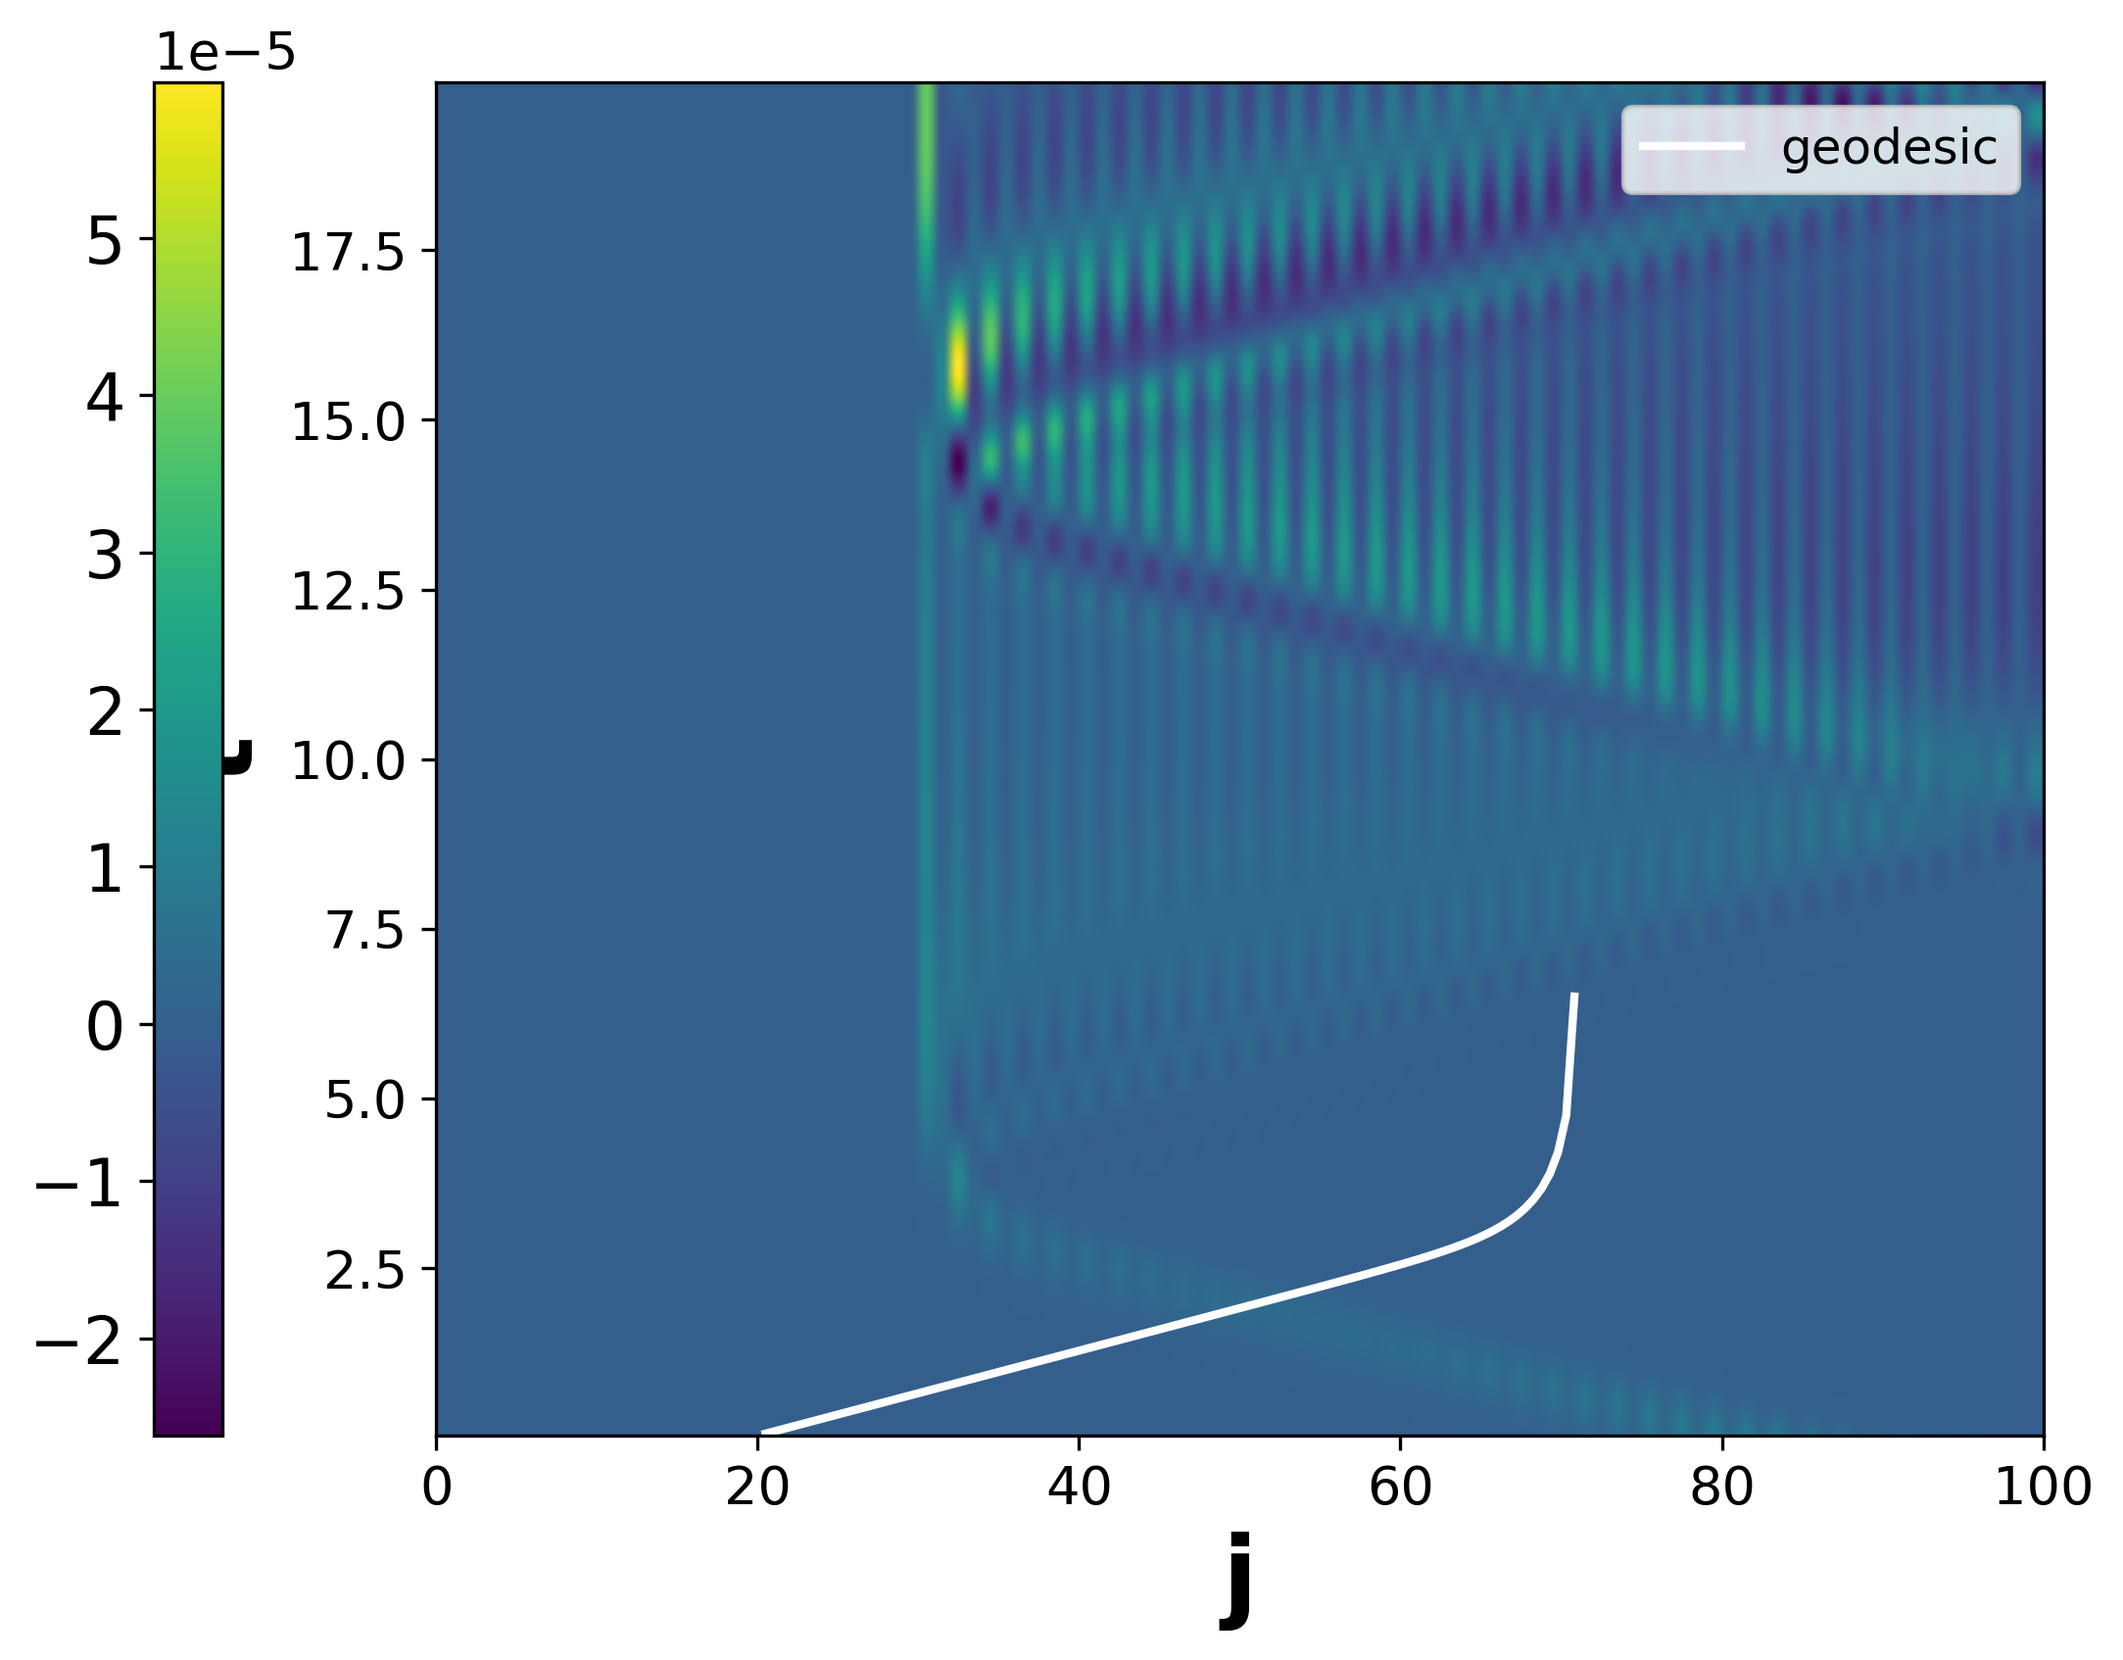
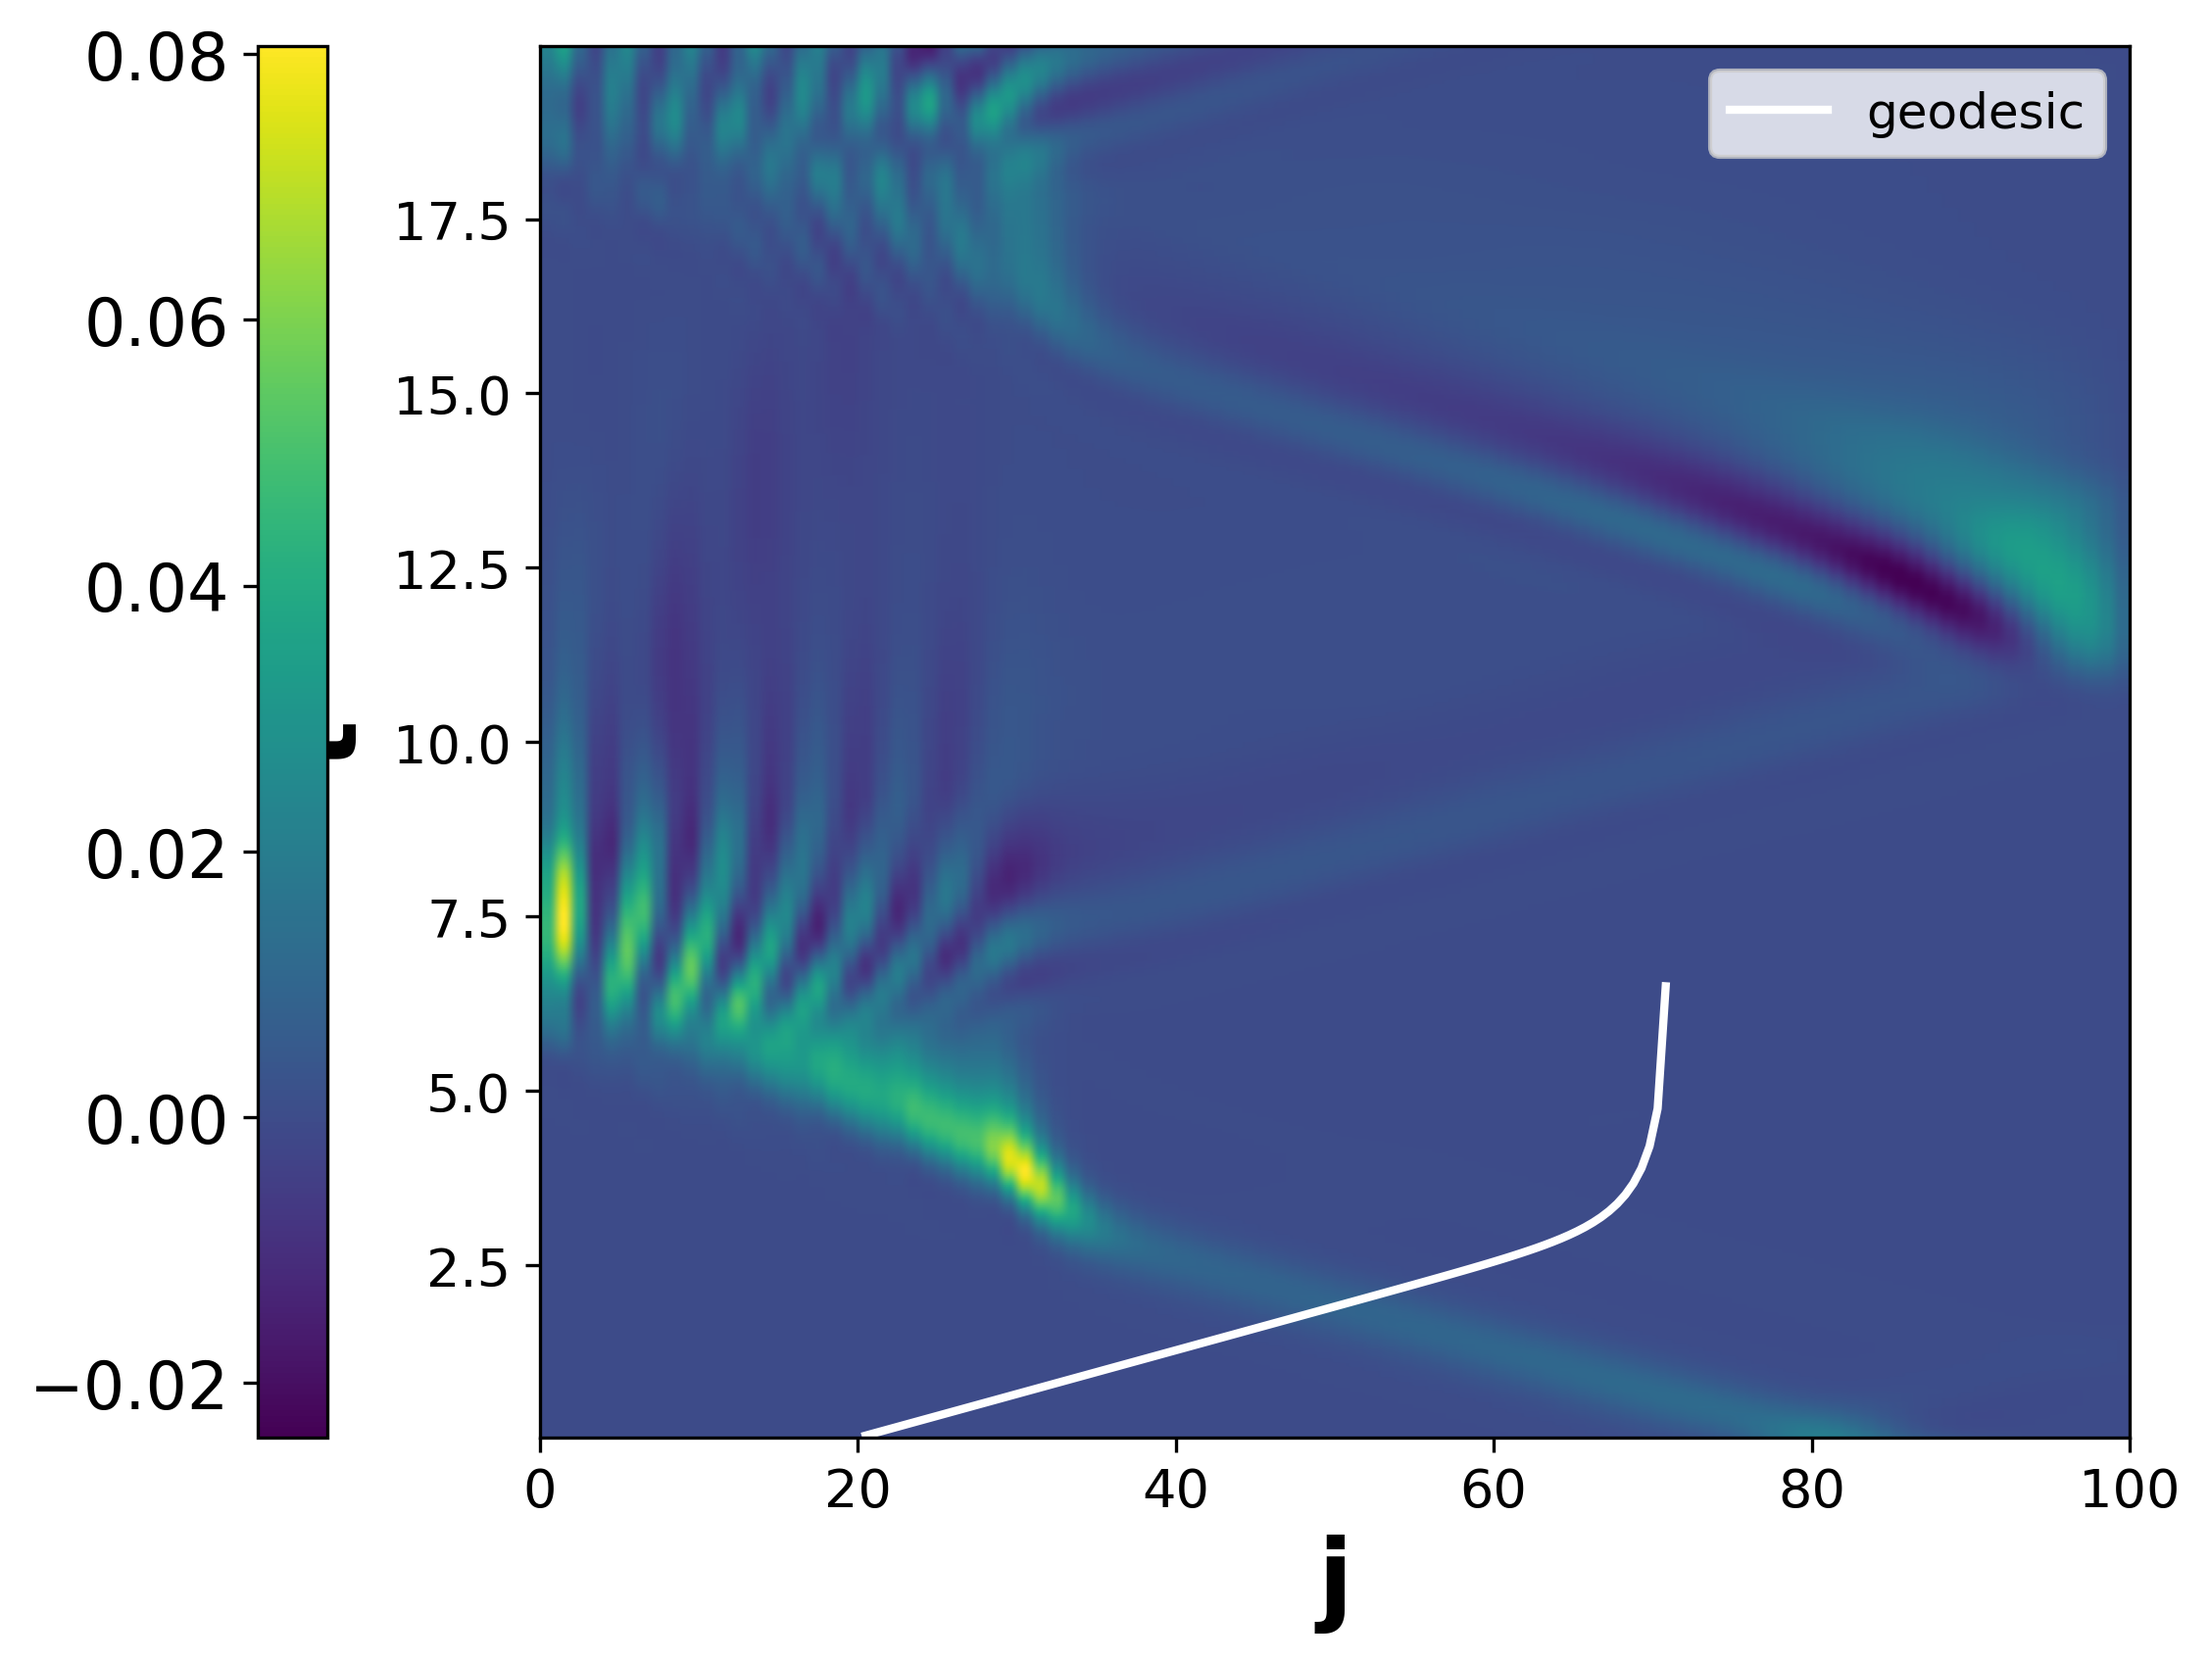
H_pm追加（c_dag_cがまだおかしい）

diff --git a/painleve.py b/painleve.py
@@ -8,7 +8,7 @@ import matplotlib.pyplot as plt
 L = 100
 l = 2*np.pi
 epsilon = l / L
-p = 10**(-5)
+p = 1
 m = 0
 pos = "ul" #lr, ur, ll, ul
 t_i = 0
@@ -102,7 +102,6 @@ plt.show()
 
 #bogoliubov変換行列の作成##########################################################################################################################
 #BdG行列を対角化
-H_BdG = 0.5*(H_BdG + H_BdG.conj().T)
 eigenvalues, eigenvectors = LA.eigh(H_BdG)
 print(eigenvalues)
 print(eigenvectors)
@@ -281,6 +280,7 @@ psi /= np.linalg.norm(psi)
 #ハミルトニアン密度作成###############################################################################################################
 H_p = []
 H_m = []
+H_pm = []
 
 #cj_cj1
 cj_cj1_list = []
@@ -305,28 +305,42 @@ for cj1_cj in cj1_cj_list:
 for j in range(L):
     H_p_j = np.zeros((L, L), dtype=complex)
     H_m_j = np.zeros((L, L), dtype=complex)
+    H_pm_j = np.zeros((L, L), dtype=complex)
 
     #ハミルトニアン密度作成
     H_p_j = -1j/(4*epsilon) * (1+beta(j,L,pos,epsilon))  * (1j*cj_cj1_list[j] + cj_cj1_dag_list[j] + cj_dag_cj1_list[j] - 1j*cj_dag_cj1_dag_list[j])
     H_m_j = -1j/(4*epsilon) * (-1+beta(j,L,pos,epsilon))  * (-1j*cj_cj1_list[j] + cj_cj1_dag_list[j] + cj_dag_cj1_list[j] + 1j*cj_dag_cj1_dag_list[j])
+    H_pm_j = -1j/(2*epsilon) * (p*(1j*cj_cj1_dag_list[j] - 1j*cj_dag_cj1_list[j]) - (p - epsilon*m)*(-2*1j*cj_dag_cj_list[j]))
 
     #エルミートか確認
     isHermitian = is_hermitian(H_p_j)
     assert isHermitian, "H_p(j=" + str(j) + ") is not Hermitian!"
     isHermitian = is_hermitian(H_m_j)
     assert isHermitian, "H_m(j=" + str(j) + ") is not Hermitian!"
+    isHermitian = is_hermitian(H_pm_j)
+    assert isHermitian, "H_pm(j=" + str(j) + ") is not Hermitian!"
 
     H_p.append(H_p_j)
     H_m.append(H_m_j)
-
-
+    H_pm.append(H_pm_j)
 
 #真空の量を計算##########################################################################################
 Hp_v = []
 Hm_v = []
+Hpm_v = []
+
+#真空のc_dag_cを計算
+c_dag_c_v = []
+for j in range(L):
+    total = 0.0
+    for n in range(L):
+        total += abs(eigenvectors[j, n+L])**2
+    c_dag_c_v.append(total)
+
 for j in range(L):
     Hp_v_j = 0
     Hm_v_j = 0
+    H_pm_v_j = 0
     F1 = 0
     F2 = 0
     for n in range(L):
@@ -338,27 +352,23 @@ for j in range(L):
             F2 += eigenvectors[j+1,n+L].conj() * eigenvectors[j,n+L]
     Hp_v_j = -1/(2*epsilon) * 1j * (1+beta(j,L,pos,epsilon)) * 1/2 * (1j * (-1*F1) + (-1*F2) + (F2.conj()) - 1j * (F1.conj()))
     Hm_v_j = -1/(2*epsilon) * 1j * (-1+beta(j,L,pos,epsilon)) * 1/2 * (-1j * (-1*F1) + (-1*F2) + (F2.conj()) + 1j * (F1.conj()))
+    H_pm_v_j = -1j/(2*epsilon) * (1j * p * (-1*F2 - F2.conj()) - (p - epsilon*m) * (-2j * c_dag_c_v[j]))
     assert abs(Hp_v_j - Hp_v_j.conj()) < 10**-5, "Hp_v_j(j=" + str(j) + ") is not Hermitian!"
     assert abs(Hm_v_j - Hm_v_j.conj()) < 10**-5, "Hm_v_j(j=" + str(j) + ") is not Hermitian!"
     Hp_v.append(Hp_v_j)
     Hm_v.append(Hm_v_j)
+    Hpm_v.append(H_pm_v_j)
     if not PBC:
         if j == L-1:
             Hp_v[-1] = 0
             Hm_v[-1] = 0
+            Hpm_v[-1] = 0
 
 plt.plot(Hp_v, label="Hp_v")
 plt.plot(Hm_v, label="Hm_v")
+plt.plot(Hpm_v, label="Hpm_v")
 plt.legend()
 plt.show()
-
-#真空のc_dag_cを計算
-c_dag_c_v = []
-for j in range(L):
-    total = 0.0
-    for n in range(L):
-        total += abs(eigenvectors[j, n+L])**2
-    c_dag_c_v.append(total)
 
 plt.plot(c_dag_c_v)
 plt.title("c_dag_c_v")
@@ -369,6 +379,7 @@ plt.show()
 
 H_p_0 = []
 H_m_0 = []
+H_pm_0 = []
 c_0 = []
 #H_pの期待値
 for j, H_p_j in enumerate(H_p):
@@ -380,15 +391,19 @@ for j, H_m_j in enumerate(H_m):
     val = psi.T.conj() @ H_m_j @ psi
     H_m_0.append(val.item() - Hm_v[j])
 
+#H_pmの期待値
+for j, H_pm_j in enumerate(H_pm):
+    val = psi.T.conj() @ H_pm_j @ psi
+    H_pm_0.append(val.item() - Hpm_v[j])
+
 #c_dag_cの期待値
-print("val")
 for j, cj_dag_cj in enumerate(cj_dag_cj_list):
     val = psi.T.conj() @ cj_dag_cj @ psi
-    print(val)
     c_0.append(val.item() - c_dag_c_v[j])
 
 plt.plot(H_p_0, label="H_p_0")
 plt.plot(H_m_0, label="H_m_0")
+plt.plot(H_pm_0, label="H_pm_0")
 plt.legend()
 plt.grid()
 plt.show()
@@ -401,6 +416,7 @@ plt.show()
 #時間発展###########################################################################################################################
 H_p_val = []
 H_m_val = []
+H_pm_val = []
 c_dag_c_val = []
 psi_initial = psi.copy()
 def log_imag(name, arr):
@@ -416,9 +432,11 @@ for i, _ in enumerate(times):
 
     H_p_t_val = []
     H_m_t_val = []
+    H_pm_t_val = []
     c_dag_c_t_val = []
     H_p_test = []
     H_m_test = []
+    H_pm_test = []
     c_dag_c_test = []
 
     #H_pの期待値
@@ -435,6 +453,13 @@ for i, _ in enumerate(times):
         H_m_test.append(val)
     H_m_val.append(H_m_t_val)
 
+    #H_pmの期待値
+    for j, H_pm_j in enumerate(H_pm):
+        val = psi.T.conj() @ H_pm_j @ psi
+        H_pm_t_val.append(val.item() - Hpm_v[j])
+        H_pm_test.append(val)
+    H_pm_val.append(H_pm_t_val)
+
     #c_dag_cの期待値
     for j, cj_dag_cj in enumerate(cj_dag_cj_list):
         val = psi.T.conj() @ cj_dag_cj @ psi
@@ -444,6 +469,7 @@ for i, _ in enumerate(times):
 
     log_imag("H_p", H_p_test)
     log_imag("H_m", H_m_test)
+    log_imag("H_pm", H_pm_test)
     log_imag("c_dag_c", c_dag_c_test)
 
     psi = psi_initial.copy()
@@ -553,6 +579,9 @@ try:
     x_scaled = (x / (2 * np.pi)) * L
     t_scaled = (t / 20.0) * (times[-1] - times[0]) + times[0]
 
+    # 左右反転
+    x_scaled = L - x_scaled
+
     plt.plot(x_scaled, t_scaled, color='white', linewidth=2, label='geodesic')
     plt.legend(loc='upper right', fontsize=12)
 except Exception as e:
@@ -626,3 +655,52 @@ plt.tight_layout()
 plt.savefig('figure/c_dag_c.png',
             dpi=300, bbox_inches='tight', transparent=True)
 
+#+-
+H_pm_arr = np.array(H_pm_val, dtype=complex)
+H_pm_array = np.real(H_pm_arr).astype(float) #ここで実数にしていることに注意
+data_min = np.nanmin(H_pm_array)
+data_max = np.nanmax(H_pm_array)
+nt, L = H_pm_array.shape #時間ステップ数(使わない)とサイト数を取得
+plt.rcParams.update({
+    'font.size': 18,
+    'axes.labelsize': 25,
+    'axes.titlesize': 22,
+    'xtick.labelsize': 13,
+    'ytick.labelsize': 13,
+})
+plt.figure(figsize=(8, 6))
+# 背景の密度プロット
+plt.imshow(
+    H_pm_array,
+    aspect='auto',
+    origin='lower',
+    extent=[0, L, times[0], times[-1]],
+    cmap='viridis',
+    vmin=float(data_min),
+    vmax=float(data_max)
+)
+# —— geodesic.dat を重ねる（物理範囲→表示範囲の対応） ——
+try:
+    # 実行スクリプト基準で geodesic.dat を探す
+    file_path = "geodesic.dat"
+    geodesic_data = np.loadtxt(file_path, delimiter=",")
+
+    x = geodesic_data[:, 0]  # 物理空間座標（0〜2π）
+    t = geodesic_data[:, 1]  # 物理時間（0〜20）
+
+    # スケーリング変換
+    x_scaled = (x / (2 * np.pi)) * L
+    t_scaled = (t / 20.0) * (times[-1] - times[0]) + times[0]
+
+    plt.plot(x_scaled, t_scaled, color='white', linewidth=2, label='geodesic')
+    plt.legend(loc='upper right', fontsize=12)
+except Exception as e:
+    print(f"Warning: geodesic.dat の重ね描画に失敗しました: {e}")
+# ————————————————————————————————  
+cbar = plt.colorbar(location='left')
+cbar.ax.tick_params(labelsize=16)
+plt.xlabel('j', fontweight='bold')
+plt.ylabel('t', fontweight='bold')
+plt.tight_layout()
+plt.savefig('figure/H_pm.png',
+            dpi=300, bbox_inches='tight', transparent=True)

diff --git a/c_op_test.py b/c_op_test.py
@@ -10,7 +10,7 @@ l = 2*np.pi
 epsilon = l / L
 p = 10**(-5)
 m = 0
-pos = "lr" #lr, ur, ll, ul
+pos = "ur" #lr, ur, ll, ul
 t_i = 0
 t_f = 10
 dt = 0.01*(300/L) #この値は後で検討
@@ -283,4 +283,4 @@ for j in range(L):
     print("2")
     print(cj1_cj_list[j] + cj1_dag_cj_dag_list[j].conj().T)
     print("3")
-    print(cj_cj1_list[j] - cj_dag_cj1_dag_list[j].conj().T)
+    print(cj1_cj_list[j] - cj_dag_cj1_dag_list[j].conj().T)
